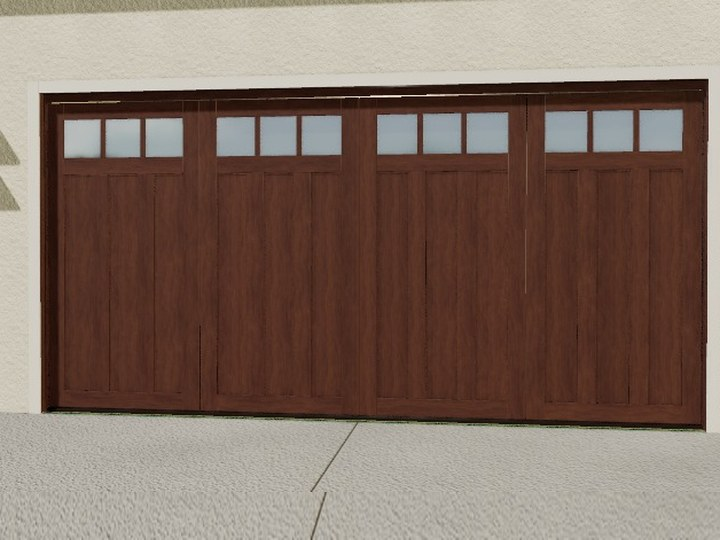
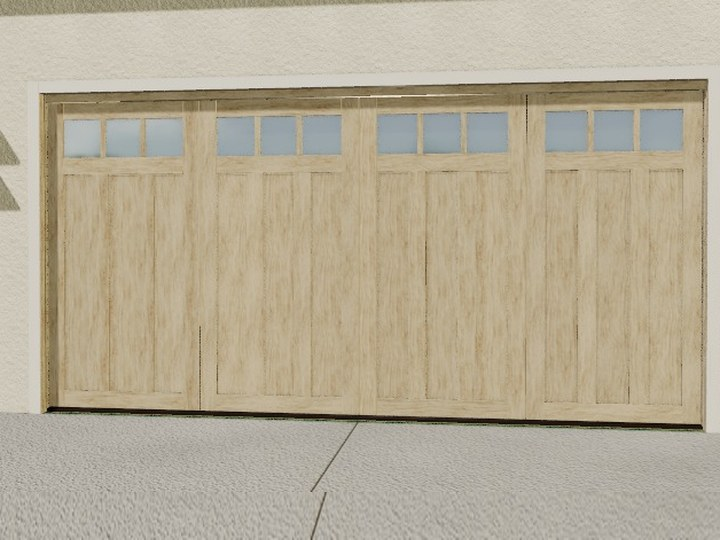
Tungsten Royce site build Mon 11/23/2026  8:18:14.94

diff --git a/design/index.html b/design/index.html
@@ -1339,14 +1339,14 @@ window.flowGH=function(v,typing){ const g=$("r_gh"); g.value=+v>0?+v:0; draw(); 
 /* WOOD SPECIES (Ryan 23 Nov): a wood clad or a solid wood door - pick the species from the shop's list or write one in.
    The list is the book's timber group (tr-intake web_timber); until it answers, the materials on the cladding profiles. */
 let WOODS=[]; try{ fetch(ENDPOINT,{method:"POST",headers:{"content-type":"application/json"},body:JSON.stringify({action:"web_timber"})}).then(r=>r.ok?r.json():null).then(j=>{ if(j&&j.ok&&Array.isArray(j.rows)&&j.rows.length){ WOODS=j.rows; if(STEP===4) woodDraw(); } }).catch(()=>{}); }catch(e){}
-const woodList=()=>{ const l=WOODS.length?WOODS.slice():[...new Set(CLADP.map(c=>c.material).filter(m=>m&&!/steel|metal/i.test(m)))]; if(S.species&&!S.woodOther&&!l.includes(S.species)) l.push(S.species); return l; };
+const woodList=()=>{ const l=WOODS.length?WOODS.filter(n=>!/^other\b/i.test(n)):[...new Set(CLADP.map(c=>c.material).filter(m=>m&&!/steel|metal/i.test(m)))]; if(S.species&&!S.woodOther&&!l.includes(S.species)) l.push(S.species); return l; };
 const woodOn=()=>{ const f=FAMS.find(x=>x.k===S.family)||{}; if(f.base==="tbclad") return !/metal/.test(String(f.clad||S.clad_look||"")); return finBy(S.finish_out).type==="stain"; };
 function woodDraw(){ const h=$("fwood"); if(!h) return; const on=woodOn(); h.style.display=on?"":"none"; if(!on) return; h.querySelector(".fl b").textContent=S.species||"";
   const fb=h.querySelector(".fb"), ti=fb.querySelector("input"); if(ti&&ti===document.activeElement) return;
   fb.innerHTML='<div class="t24"><label class="ghin wsel"><select onchange="flowWood(this.value)"><option value=""></option>'+woodList().map(n=>'<option'+(!S.woodOther&&S.species===n?" selected":"")+'>'+esc(n)+'</option>').join("")+'<option value="__other"'+(S.woodOther?" selected":"")+'>other…</option></select></label>'+(S.woodOther?'<label class="ghin"><input type="text" maxlength="60" style="width:220px" value="'+esc(S.species||"")+'" oninput="flowWoodTxt(this.value)"></label>':"")+'</div>'; }
 window.flowWood=function(v){ if(v==="__other"){ S.woodOther=true; S.species=""; woodDraw(); const i=$("fwood").querySelector("input"); if(i) i.focus(); return; } S.woodOther=false; S.species=v||""; woodDraw(); };
 window.flowWoodTxt=function(v){ S.species=String(v||"").slice(0,60); $("fwood").querySelector(".fl b").textContent=S.species; };
-const isDO=()=>isT24()&&(((S.situations.title24||{}).fields||{}).threshold==="drive-over"), THR24=["Sealed · raised back","Drive-over · full jamb width"];
+const isDO=()=>isT24()&&(((S.situations.title24||{}).fields||{}).threshold==="drive-over"), THR24=["Sealed · raised back","Drive-over · full jamb depth"];
 function thrDraw(){ const h=$("fthr"); if(!h) return; h.style.display=""; const t=isT24(), on=t?isDO():isSunk(), L=t?THR24:["On the slab","Sunken · ¼″ proud"]; h.querySelector(".fl b").textContent=L[on?1:0];
   h.querySelector(".fb").innerHTML='<div class="t24">'+[[L[0],0],[L[1],1]].map(([t,v])=>'<button type="button" class="'+((!!v)===on?"on":"")+'" onclick="flowThr('+v+')">'+t+'</button>').join("")+'</div>'; }
 window.flowThr=function(v){ if(isT24()){ const q=S.situations.title24=S.situations.title24||{fields:{}}, f=q.fields=q.fields||{}; if(v) f.threshold="drive-over"; else delete f.threshold; } else if(v) S.situations.sunken_threshold=S.situations.sunken_threshold||{fields:{}}; else delete S.situations.sunken_threshold; draw(); thrDraw(); if($("viz3d")&&$("viz3d").style.display!=="none") mvShow(); };
